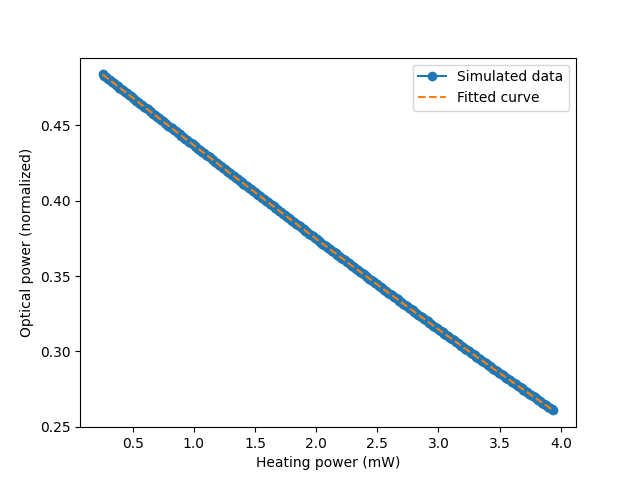
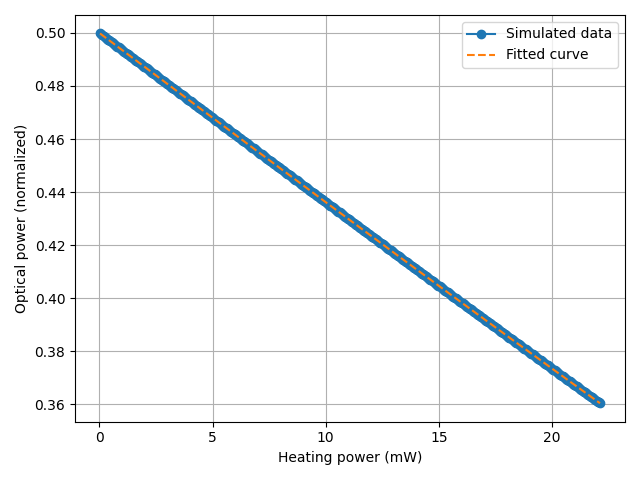
Added plot as function of power

diff --git a/Python_integrated_photonics/CrossTalk4.py b/Python_integrated_photonics/CrossTalk4.py
@@ -6,7 +6,7 @@ import os
 import FitCos
 
 BASE_DIR = os.path.dirname(os.path.abspath(__file__))
-CALIB_FILE = os.path.join(BASE_DIR, '12_mode_chip2_calibration4_1.75_2025_11_30_18.99_TEC.json')
+CALIB_FILE = os.path.join(BASE_DIR, '8-mode-autocal-20260209.json')
 
 with open(CALIB_FILE, 'r') as file:
     CALIB_DATA = json.load(file)
@@ -28,7 +28,7 @@ def power2phase(P, mzi):
     return theta 
 
 def power_transfer(P1):
-    TRANS_COEFF_2 = 0.005
+    TRANS_COEFF_2 = 0.05
     P2 = P1 * TRANS_COEFF_2
     return P2
 
@@ -47,31 +47,34 @@ def optical_power(theta):
     return powers / total_power
 
 def sweep():
-    mzi1 = 'K1_theta'
-    mzi2 = 'H1_theta'
-    N = 80
+    mzi1 = 'G3_theta'
+    mzi2 = 'G4_theta'
+    N = 240
     theta20 = 0.5 * np.pi
 
-    theta1_lst = [(1/N) * np.pi * n for n in range(N * 3 + 1) ]
+    theta1_lst = [(1/N) * np.pi * n for n in range(N * 2 + 1) ]
     P1_lst = []
     W2_lst = []
 
     for theta1 in theta1_lst:
         P1 = phase2power(theta1, mzi1)
-        P2 = phase2power(theta20, mzi2) + power_transfer(P1)
-        theta2 = power2phase(P2, mzi2)
-        W2 = optical_power(theta2)
-        P1_lst.append(P1)
-        W2_lst.append(W2[1]) 
+        if P1 >= 0:
+            P2 = phase2power(theta20, mzi2) + power_transfer(P1)
+            theta2 = power2phase(P2, mzi2)
+            W2 = optical_power(theta2)
+            P1_lst.append(P1)
+            W2_lst.append(W2[1]) 
 
     a, b, c, d = FitCos._fit_cosine_general(P1_lst, W2_lst)
     print('a', a, 'b', b, 'c', c, 'd', d)
 
     W2_fit = [a * np.cos(b*P + c) + d for P in P1_lst]
-    plt.plot(P1_lst, W2_lst, '-o', label = 'Simulated data',)
+    plt.plot(P1_lst, W2_lst, '-o', label = 'Simulated data')
     plt.plot(P1_lst, W2_fit, '--', label = 'Fitted curve')
     plt.xlabel('Heating power (mW)')
     plt.ylabel('Optical power (normalized)')
+    plt.grid()
+    plt.tight_layout()
     plt.legend()
     plt.show()
 
@@ -80,14 +83,14 @@ def sweep():
     W2_corrected_lst = []
     for theta1 in theta1_lst:
         P1 = phase2power(theta1, mzi1)
+        if P1 >= 0:
+            theta2_correction = theta20 - b * P1
+            P2_correction = phase2power(theta2_correction, mzi2)
 
-        theta2_correction = theta20 - b * P1
-        P2_correction = phase2power(theta2_correction, mzi2)
-
-        P2 = P2_correction + power_transfer(P1)
-        theta2 = power2phase(P2, mzi2)
-        W2 = optical_power(theta2)
-        W2_corrected_lst.append(W2[1])
+            P2 = P2_correction + power_transfer(P1)
+            theta2 = power2phase(P2, mzi2)
+            W2 = optical_power(theta2)
+            W2_corrected_lst.append(W2[1])
 
     plt.plot(P1_lst, W2_lst, '-o', label='uncompensated')
     plt.plot(P1_lst, W2_corrected_lst, '-o', label='compensated')
@@ -95,7 +98,13 @@ def sweep():
     plt.xlabel('Heating power (mW)')
     plt.ylabel('Optical power (normalized)')
     plt.legend()
+    plt.grid()
+    plt.tight_layout()
     plt.show()
 
 if __name__ == '__main__':
-    sweep()
+
+    theta = 0.5
+    ct_theta = theta + 0.0176774193548
+
+    print(optical_power(ct_theta * np.pi)[0]/optical_power(theta * np.pi)[0] - 1)

diff --git a/Python_integrated_photonics/PlotAsFunctionOfPower.py b/Python_integrated_photonics/PlotAsFunctionOfPower.py
@@ -1,0 +1,73 @@
+import matplotlib.pyplot as plt
+import numpy as np
+import json
+import csv
+import os
+
+import FitCos
+
+BASE_DIR = os.path.dirname(os.path.abspath(__file__))
+CALIB_FILE = os.path.join(BASE_DIR, '8-mode-autocal-20260209.json')
+CT_FILE = os.path.join(BASE_DIR, 'source-g3theta_target-g4theta.csv')
+
+with open(CALIB_FILE, 'r') as file:
+    CALIB_DATA = json.load(file)
+
+with open(CT_FILE, 'r', encoding='utf-8') as file:
+    CT_DATA = list(csv.reader(file))
+
+def power(phase_value, mzi):
+    phase_params = CALIB_DATA['phase_calibration'][mzi]['phase_params']
+    b = phase_params['omega']
+    c = phase_params['phase']
+    delta_phase = (phase_value - c) % 2
+    P_mW = delta_phase * np.pi / b  # Power in mW
+    return P_mW
+
+def plot():
+    mzi1 = 'G3_theta'
+    mzi2 = 'G4_theta'
+
+    legend1 = CT_DATA[0][2]
+    legend2 = CT_DATA[0][4]
+
+    W1 = []
+    W2 = []
+    P = []
+    for row in CT_DATA[1:]:
+        P.append(power(float(row[0]), mzi1))
+        W1.append(float(row[2]))
+        W2.append(float(row[4]))
+
+    #plt.plot(P, W1,'o',label = legend1, color = 'tab:blue')
+    plt.plot(P, W2,'o',label = legend2, color = 'tab:orange')
+    plt.legend()
+    plt.xlabel('Heating power (mW)')
+    plt.ylabel('Optical power (normalized)')
+    plt.grid()
+    plt.tight_layout()
+    plt.show()
+
+def plot_compensated():
+    mzi1 = 'G3_theta'
+
+    W1 = []
+    P = []
+    for row in CT_DATA[1:]:
+        P.append(power(float(row[0]), mzi1))
+        W1.append(float(row[2]))
+
+    a, b, c, d = FitCos._fit_cosine_general(P, W1)
+    W1_fit = [a * np.cos(b*p + c) + d for p in P]
+
+    print(c)
+    print(np.pi/2)
+
+    plt.plot(P, W1, 'o', label = 'Simulated data',)
+    plt.plot(P, W1_fit, '*', label = 'Fitted curve')
+    plt.xlabel('Heating power (mW)')
+    plt.ylabel('Optical power (normalized)')
+    plt.legend()
+    plt.show()
+
+plot()

diff --git a/Python_integrated_photonics/PlotNonLinear.py b/Python_integrated_photonics/PlotNonLinear.py
@@ -1,0 +1,53 @@
+import matplotlib.pyplot as plt
+import numpy as np
+from scipy.optimize import curve_fit
+import json
+import os
+
+BASE_DIR = os.path.dirname(os.path.abspath(__file__))
+CALIB_FILE = os.path.join(BASE_DIR, '8-mode-autocal-20260209.json')
+
+with open(CALIB_FILE, 'r') as file:
+    CALIB_DATA = json.load(file)
+
+
+def power(I, mzi):
+    res_params = CALIB_DATA['resistance_calibration'][mzi]['resistance_params']
+    a = res_params['a_res']
+    c = res_params['c_res']
+    d = res_params['d_res']
+    return a * I ** 4 + c * I * 3 + d * I
+
+def power_l(I, mzi):
+    res_params = CALIB_DATA['resistance_calibration'][mzi]['resistance_params']
+    a = res_params['a_res']
+    c = res_params['c_res']
+    d = res_params['d_res']
+    return c * I * 3 + d * I
+
+def phase(P, mzi):
+    phase_params = CALIB_DATA['phase_calibration'][mzi]['phase_params']
+    omega = phase_params['omega']
+    theta0 = phase_params['phase']
+    dtheta = (P * omega)
+    theta = dtheta + theta0 
+    return theta 
+
+def plot(mzi):
+    currents = CALIB_DATA['phase_calibration'][mzi]['measurement_data']['currents']
+    currents = np.array(currents)
+    powers = [power(I, mzi) for I in currents]
+    phases = [phase(P, mzi) for P in powers]
+    powers_l = [power_l(I, mzi) for I in currents]
+    phases_l = [phase(P, mzi) for P in powers_l]
+
+    plt.plot(currents, phases, 'bo', label='Data')
+    plt.plot(currents, phases, 'r-', label='Quadratic model')
+    plt.plot(currents, phases_l, 'k--', label='Linear model')
+    plt.grid()
+    plt.legend()
+    plt.xlabel('Current [mA]')
+    plt.ylabel('Phase [rad]')
+    plt.show()
+
+plot('G4_theta')

diff --git a/Python_integrated_photonics/FitCos.py b/Python_integrated_photonics/FitCos.py
@@ -36,13 +36,6 @@ def _fit_cosine_general(xdata, ydata, positive=True):
     guess = [guess_amp, 2.*np.pi*guess_freq, fft_phase, guess_offset]
     
     # Define the cosine function based on sign
-    # if positive:
-    #     def cos_func(P, A, b, c, d):
-    #         return A * np.cos(b*P + c) + d
-    # else:
-    #     def cos_func(P, A, b, c, d):
-    #         return -A * np.cos(b*P + c) + d
-        
     if positive:
         def cos_func(P, A, b, c, d):
             return A * np.cos(b*P + c) + d

diff --git a/Python_integrated_photonics/CrossTalk6.py b/Python_integrated_photonics/CrossTalk6.py
@@ -103,4 +103,6 @@ def sweep():
     plt.show()
 
 if __name__ == '__main__':
-    sweep()
+    #sweep()
+    print(optical_power(0.5 * np.pi))
+    print(optical_power(0.5 * np.pi + 0.04 * np.pi))
